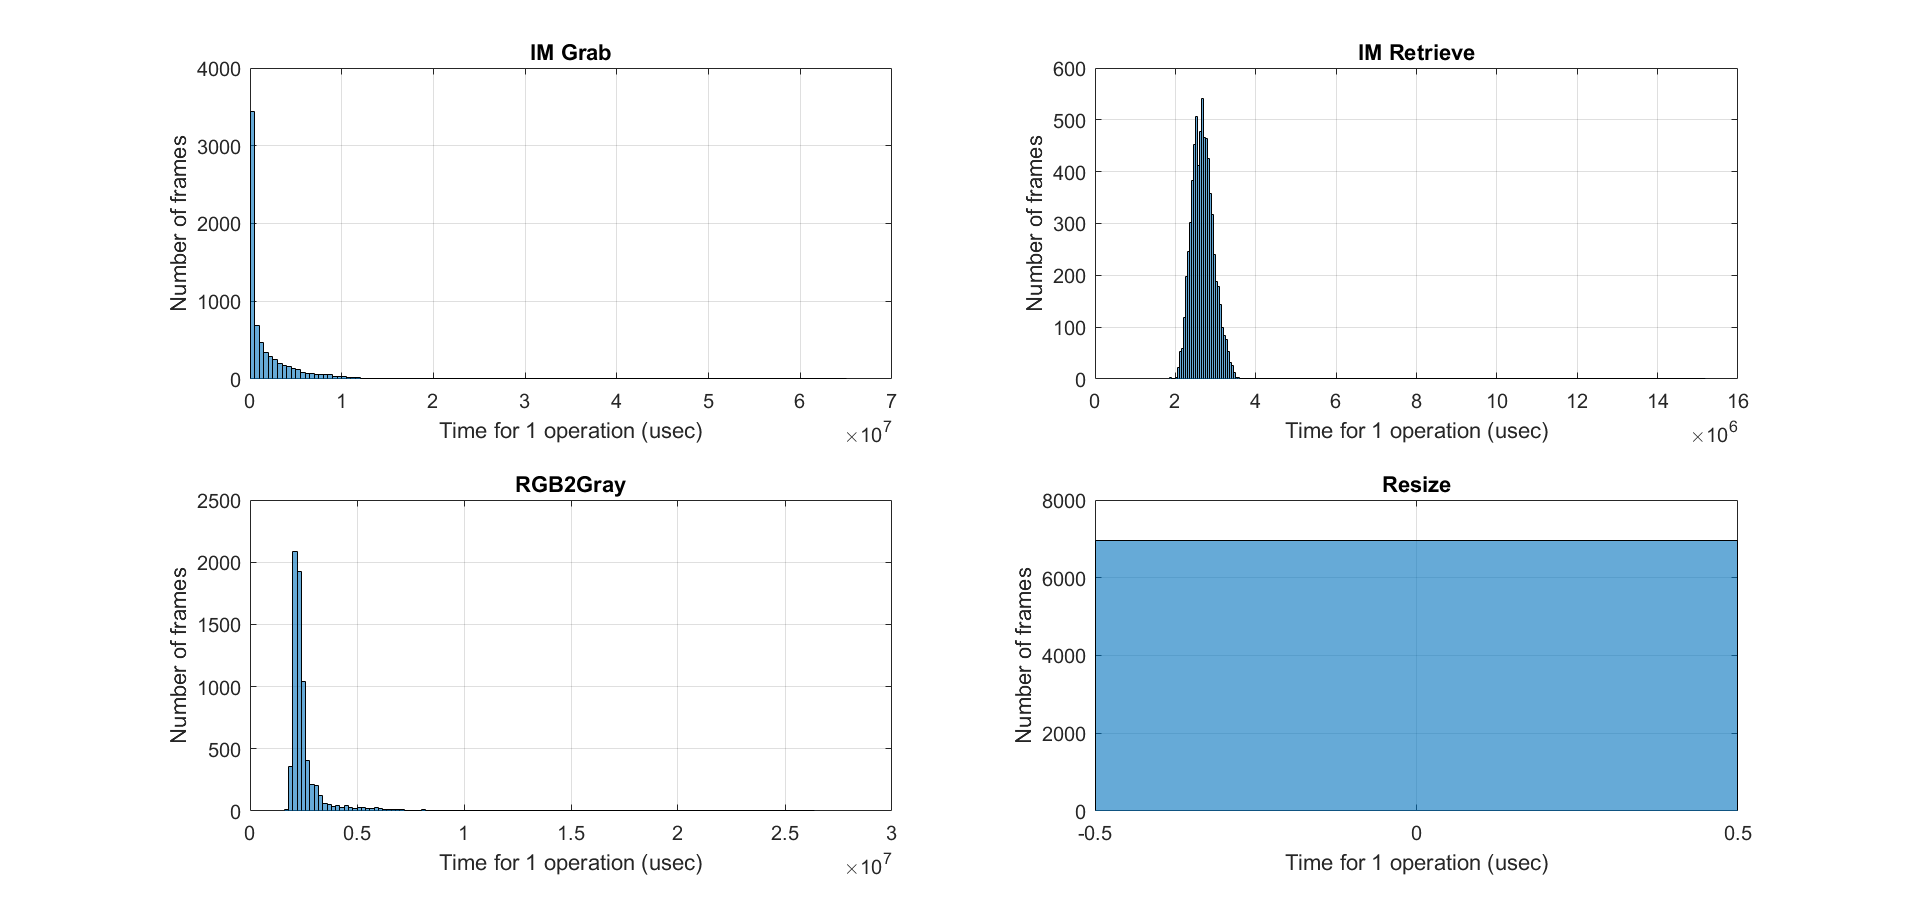
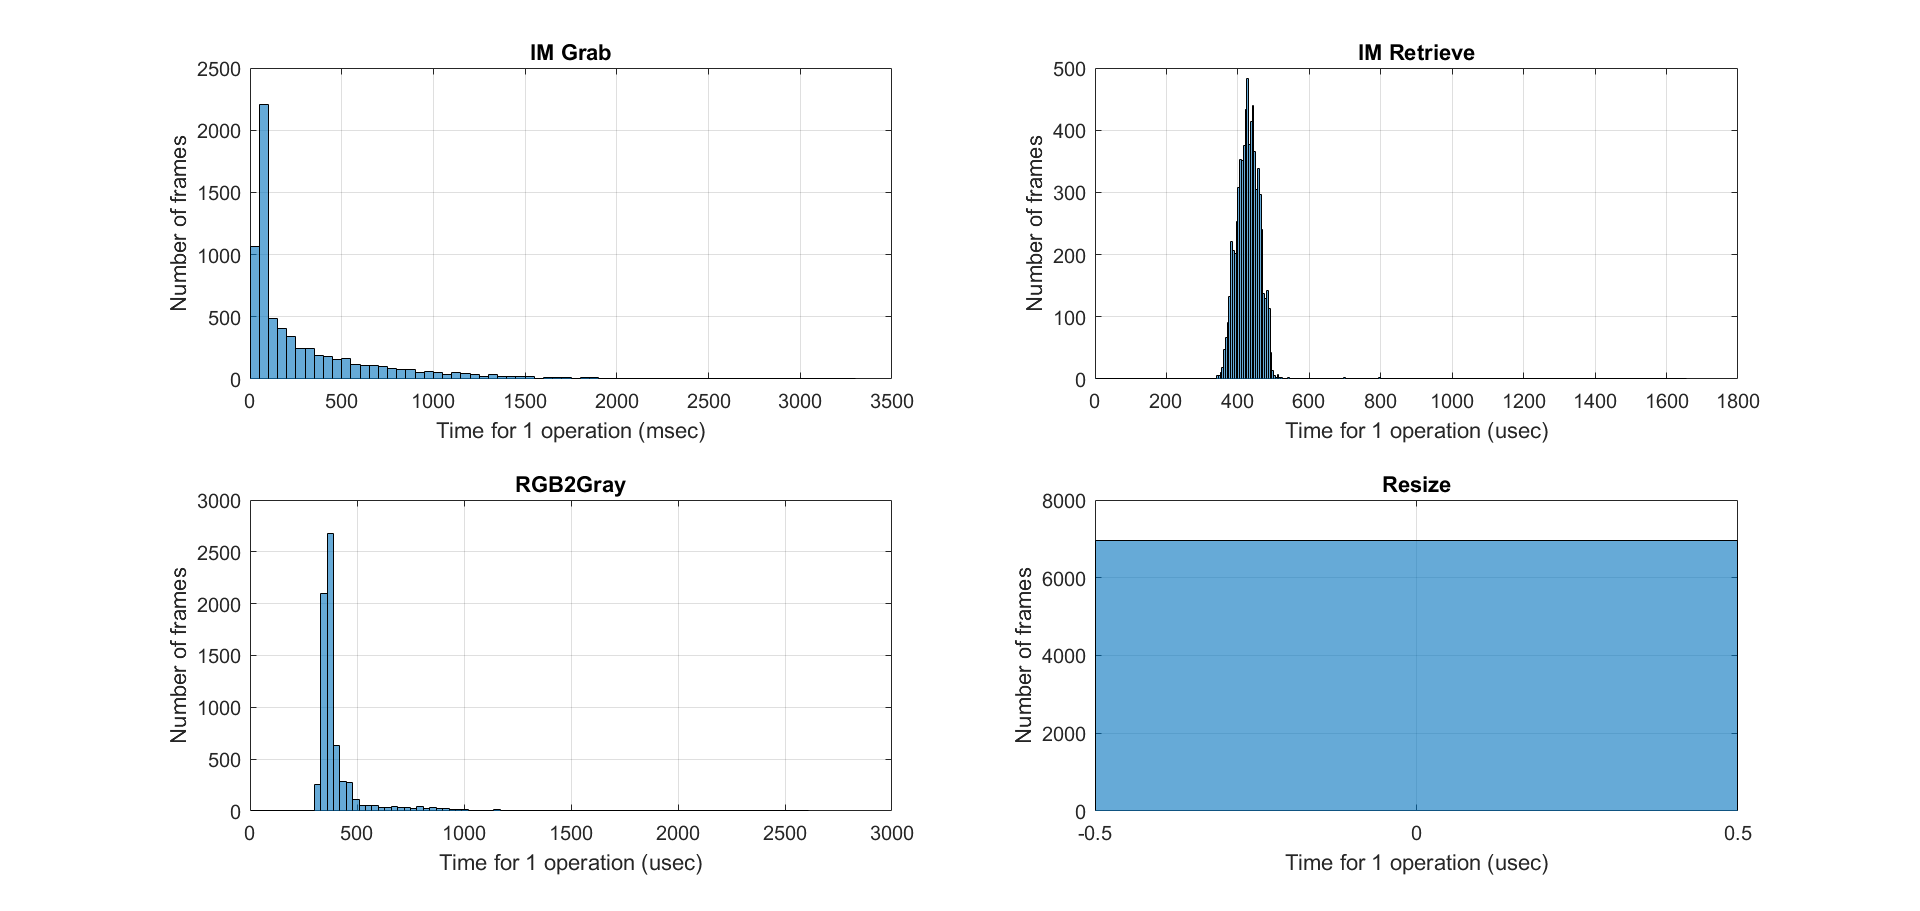
Removed unneccessary Hist plot. Corrected Matlab code for summing over 5 iterations, not 38400. Also updated the Hist plot for 400x400 video

diff --git a/sys_perf/plot_data.m b/sys_perf/plot_data.m
@@ -7,11 +7,11 @@ clear; close all; clc;
 %Individual Img Proc log file format  (all values in microseconds)
 %Grab Time, Retrieve time, Color, Resize
 
-num_data_per_iter = 6; % Tells the number of data points collected for each iteration
+num_data_per_iter = 4; % Tells the number of data points collected for each iteration
 num_frame_skips = 0; %[5 10 20 50 100 200]
 num_of_iter = 5;
-path = 'C:\Users\Rohit\Documents\Umich Courses\Prof Wenisch Project\Logs\mod_log_no_imshow_all.txt';
-% path = 'C:\Users\Rohit\Documents\Umich Courses\Prof Wenisch Project\Logs\mod_log_no_imshow.txt';
+% path = 'C:\Users\Rohit\Documents\Umich Courses\Prof Wenisch Project\Logs\mod_log_no_imshow_all.txt';
+path = 'C:\Users\Rohit\Documents\Umich Courses\Prof Wenisch Project\Logs\mod_log_no_imshow.txt';
 %path = 'C:\Users\Rohit\Documents\GitHub\video-query\sys_perf\logs\log_no_imshow.txt';
 
 %Read the log file, scan to get each data point and close the file
@@ -22,21 +22,24 @@ fclose(file_p);
 %Total number of iterations is equal to total data points/data points per
 %iteration
 tot_iters = (length(myContent{1,1}))/num_data_per_iter;
-data_matrix = zeros(num_data_per_iter, tot_iters);
-sum_matrix = zeros(num_data_per_iter, tot_iters);
+data_matrix = zeros(num_data_per_iter, ceil(tot_iters/num_of_iter));
+sum_matrix = zeros(num_data_per_iter, ceil(tot_iters/num_of_iter));
 count = 1;
 for i=1:tot_iters
     for j=1:num_data_per_iter
-        data_matrix(j,i) = str2double(myContent{1,1}(count));
+        data_matrix(j,mod(i, 6959)+1) = str2double(myContent{1,1}(count));
         count = count + 1;
     end
+    
+    if(mod(i, 6959) == 0)
     sum_matrix = sum_matrix + data_matrix;
+    end
 end
 
 
 sum_matrix = sum_matrix./num_of_iter;
 % plot_titles = {'Total time', 'Video Load', 'Check Opened', 'IM Grab', 'IM Retrieve', 'RGB2Gray', 'Resize'};
-plot_titles = {'Total Elapsed','Video Load','IM Grab', 'IM Retrieve', 'RGB2Gray', 'Resize'};
+plot_titles = {'IM Grab', 'IM Retrieve', 'RGB2Gray', 'Resize'};
 figure;
 
 x = 1:(size(data_matrix,2)-1);
@@ -46,13 +49,16 @@ x = 1:(size(data_matrix,2)-1);
 % ylabel('Elapsed time (usec)');
 % title('Time taken for processing each frame of the input video');
 % legend('Grab time', 'Retrieve time', 'RGB to Gray time', 'Resize time 224x224');
+% hold on;
 for j=1:size(sum_matrix,1)
-    subplot(3,2,j);
-%     plot(data_matrix(j,2:end));
+    
+%     plot(sum_matrix(j,2:end),'+--');
 %     xlabel('Iteration #');
 %     ylabel('Elapsed time (uSec)');
+    
+    subplot(2,2,j);
     histogram(sum_matrix(j,1:end));
-    grid on;
+    
     if(j==1)
         xlabel('Time for 1 operation (msec)');
     else
@@ -60,4 +66,9 @@ for j=1:size(sum_matrix,1)
     end
     ylabel('Number of frames');
     title(plot_titles{1,j});
+    
+    grid on;
+
 end
+%legend('Grab time', 'Retrieve time', 'RGB2Gray', 'Resize');
+% hold off;
